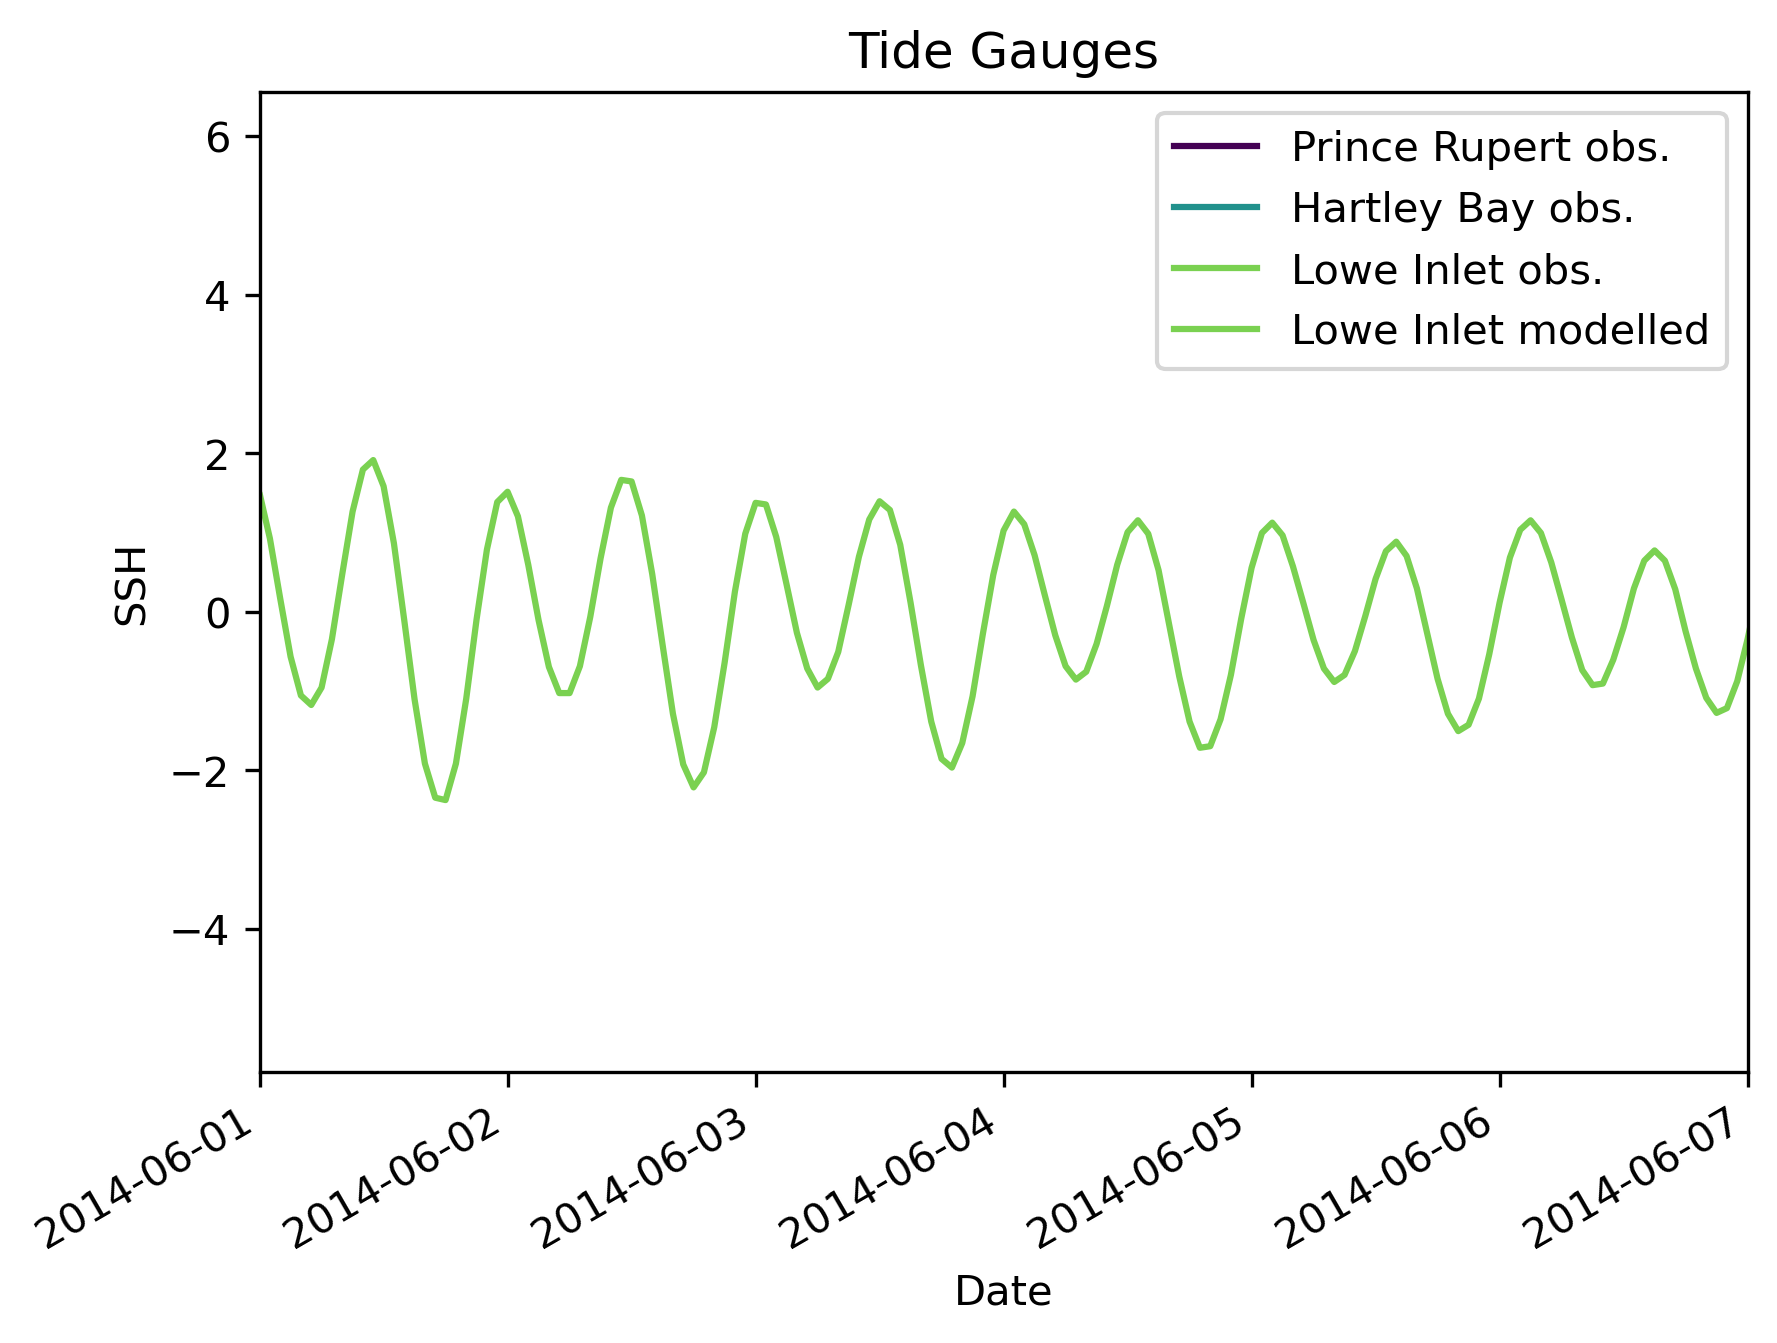
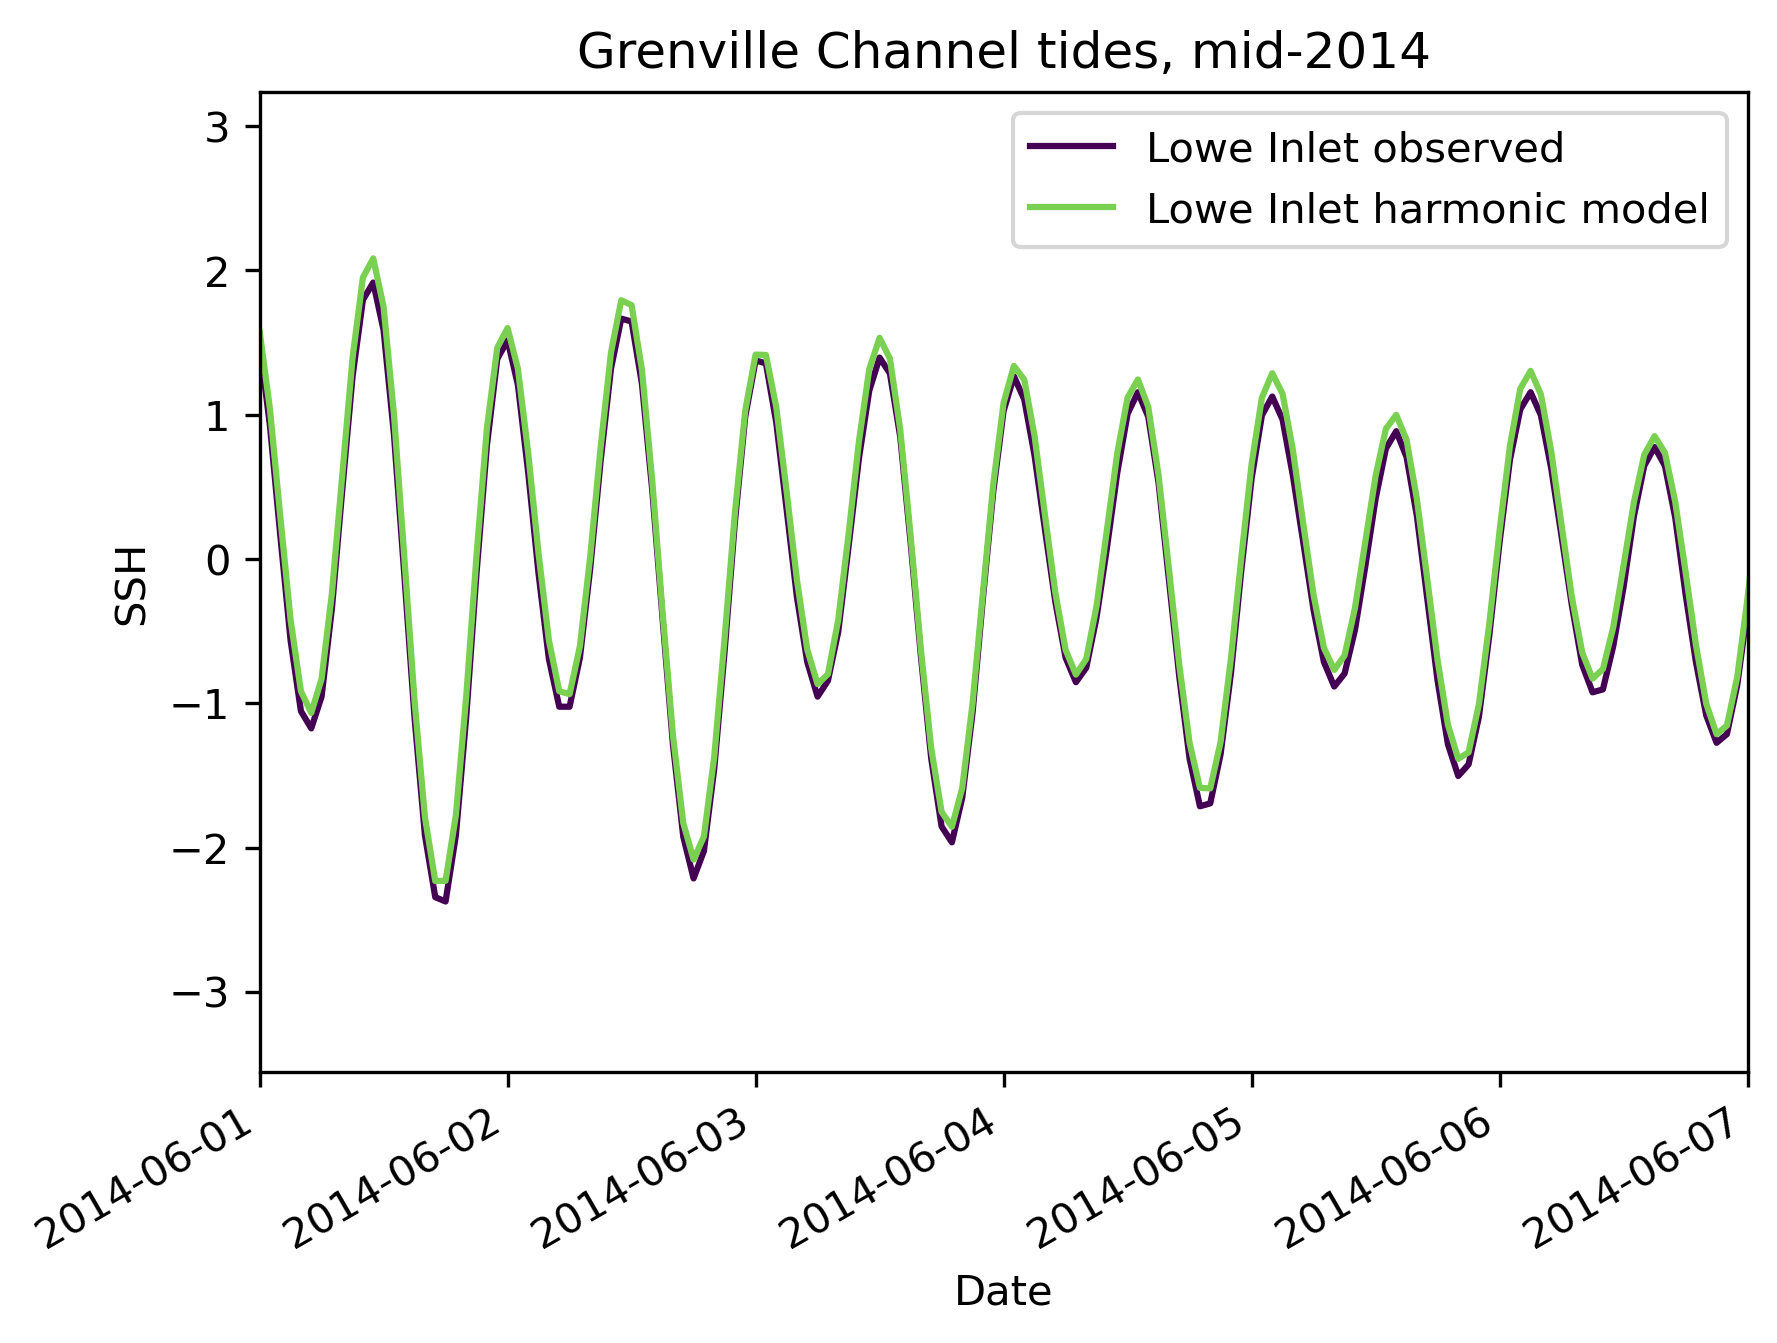
Fixed legends in tide gauge plots

diff --git a/tide_gauges_obs.py b/tide_gauges_obs.py
@@ -39,7 +39,7 @@ def tide_gauges():
 		h = df['LoweInlet_val'].dropna().to_numpy()
 		f, vu = wt.compute_nodal_modulations(time2014)
 		w = wt.harmonic_analysis(h, f, vu)
-		hp = wt.tide_from_tide_series(time2014, w) #can change the time if you want!!
+		hp = wt.tide_from_tide_series(time2020, w) #can change the time if you want!!
 
 		#IGNORE THIS SECTION
 		#wtM2 = pytide.WaveTable(["M2"])
@@ -51,19 +51,19 @@ def tide_gauges():
 		fig,ax1 = plt.subplots()
 		
 		#tide gauge data
-		##df.plot(x='PrinceRupert_date', y='PrinceRupert_val', ax=ax1, color=c1, label='Prince Rupert observed')
-		##df.plot(x='HartleyBay_date', y='HartleyBay_val', ax=ax1, color=c2, label='Hartley Bay observed')
-		df.plot(x='LoweInlet_date', y='LoweInlet_val', ax=ax1, color=c1, label='Lowe Inlet observed')
+		df.plot(x='PrinceRupert_date', y='PrinceRupert_val', ax=ax1, color=c1, label='Prince Rupert observed')
+		df.plot(x='HartleyBay_date', y='HartleyBay_val', ax=ax1, color=c2, label='Hartley Bay observed')
+		##df.plot(x='LoweInlet_date', y='LoweInlet_val', ax=ax1, color=c1, label='Lowe Inlet observed')
 
 		#modelled tides
-		ax1.plot(time2014,hp,color=c3,label='Lowe Inlet harmonic model') #can change the time, so long as it is the same as when you made hp
+		ax1.plot(time2020,hp,color=c3,label='Lowe Inlet harmonic model') #can change the time, so long as it is the same as when you made hp
 
 		ax1.legend()
-		ax1.set_title('Grenville Channel tides, mid-2014')
+		ax1.set_title('Grenville Channel tides, mid-2020')
 		ax1.set_ylabel('SSH')
 		ax1.set_xlabel('Date')
 		#ax1.set_xlim([date(2020, 1, 1), date(2020, 1, 7)])
-		ax1.set_xlim([date(2014, 6, 1), date(2014, 6, 7)])
+		ax1.set_xlim([date(2020, 6, 1), date(2020, 6, 7)])
 
 		fig.savefig('plots/tide_gauges_2020.png',dpi=300, bbox_inches="tight")
 		fig.clf()
